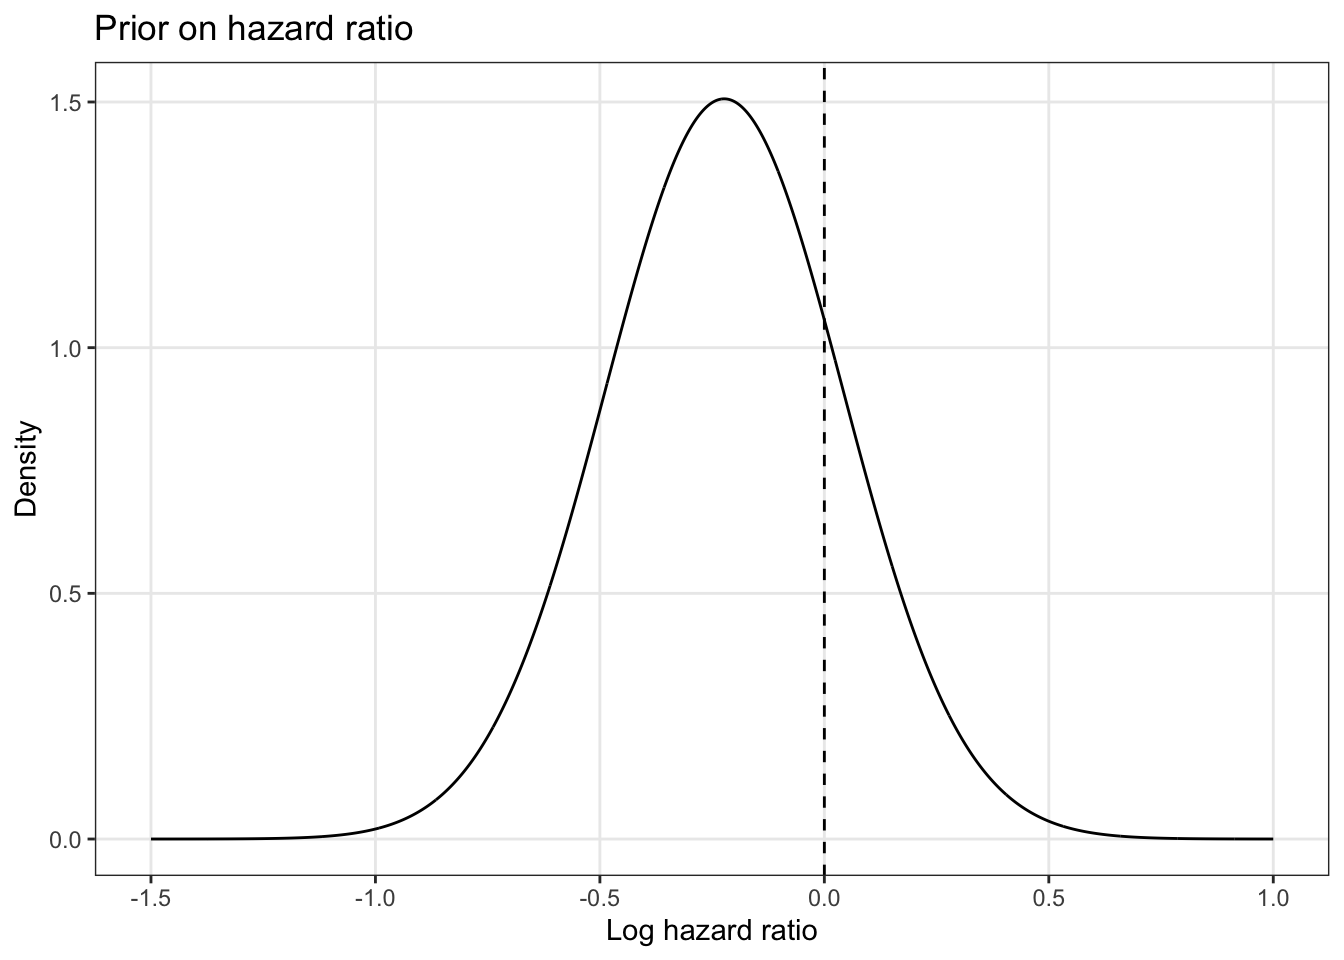
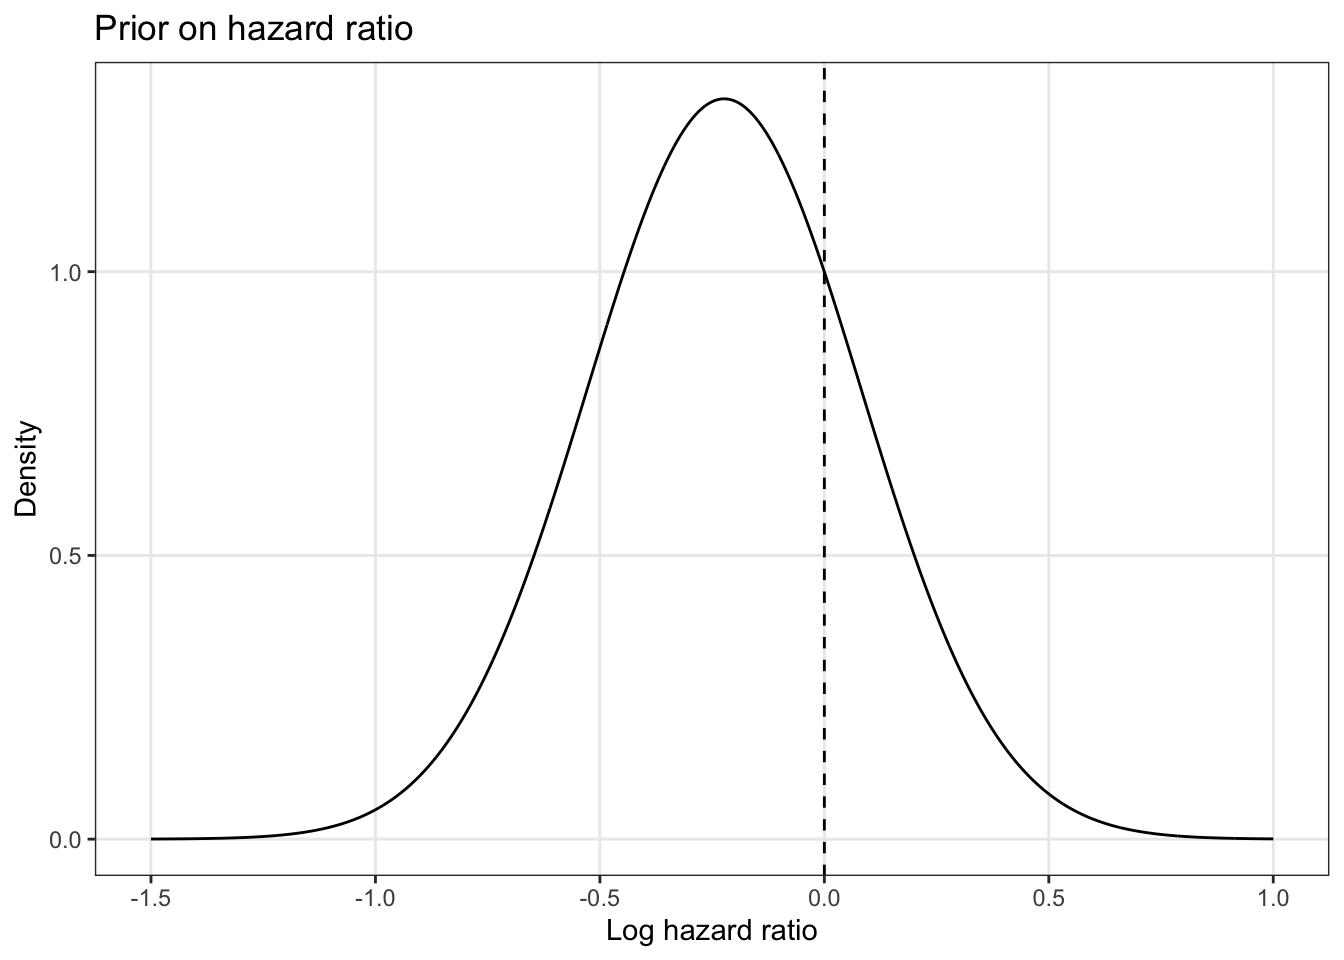
Update

diff --git a/docs/01-SampleSize-Seamless.html b/docs/01-SampleSize-Seamless.html
@@ -244,10 +244,7 @@ window.Quarto = {
   <li><a href="#gaussian-approximation" id="toc-gaussian-approximation" class="nav-link" data-scroll-target="#gaussian-approximation"><span class="header-section-number">3.5.1</span> Gaussian approximation</a></li>
   <li><a href="#phase-ii-part" id="toc-phase-ii-part" class="nav-link" data-scroll-target="#phase-ii-part"><span class="header-section-number">3.5.2</span> Phase-II part</a></li>
   <li><a href="#early-stopping-phase-ii" id="toc-early-stopping-phase-ii" class="nav-link" data-scroll-target="#early-stopping-phase-ii"><span class="header-section-number">3.5.3</span> Early stopping phase-II</a></li>
-  <li><a href="#decision-for-phase-iii" id="toc-decision-for-phase-iii" class="nav-link" data-scroll-target="#decision-for-phase-iii"><span class="header-section-number">3.5.4</span> Decision for phase-III</a>
-  <ul class="collapse">
-  <li><a href="#competing-risk" id="toc-competing-risk" class="nav-link" data-scroll-target="#competing-risk"><span class="header-section-number">3.5.4.1</span> Competing risk</a></li>
-  </ul></li>
+  <li><a href="#decision-for-phase-iii" id="toc-decision-for-phase-iii" class="nav-link" data-scroll-target="#decision-for-phase-iii"><span class="header-section-number">3.5.4</span> Decision for phase-III</a></li>
   <li><a href="#simulation-assumptions" id="toc-simulation-assumptions" class="nav-link" data-scroll-target="#simulation-assumptions"><span class="header-section-number">3.5.5</span> Simulation assumptions</a>
   <ul class="collapse">
   <li><a href="#stopping-boundaries-phase-ii" id="toc-stopping-boundaries-phase-ii" class="nav-link" data-scroll-target="#stopping-boundaries-phase-ii"><span class="header-section-number">3.5.5.1</span> Stopping boundaries phase-II</a></li>
@@ -258,6 +255,8 @@ window.Quarto = {
   <li><a href="#gaussian-prior-on-hazard-ratio-for-disease-free-survival" id="toc-gaussian-prior-on-hazard-ratio-for-disease-free-survival" class="nav-link" data-scroll-target="#gaussian-prior-on-hazard-ratio-for-disease-free-survival"><span class="header-section-number">3.5.6.2</span> Gaussian prior on hazard ratio for disease-free survival</a></li>
   </ul></li>
   </ul></li>
+  <li><a href="#results" id="toc-results" class="nav-link" data-scroll-target="#results"><span class="header-section-number">3.6</span> Results</a></li>
+  <li><a href="#comparison-with-frequentist-phase-iii-trial" id="toc-comparison-with-frequentist-phase-iii-trial" class="nav-link" data-scroll-target="#comparison-with-frequentist-phase-iii-trial"><span class="header-section-number">3.7</span> Comparison with frequentist phase-III trial</a></li>
   <li><a href="#author" id="toc-author" class="nav-link" data-scroll-target="#author">Author</a></li>
   </ul>
 </nav>
@@ -273,27 +272,26 @@ window.Quarto = {
 
 
 
-<p><strong>THIS VIGNETTE IS STILL WORK IN PROGRESS</strong></p>
 <p>This vignette was motivated by a consulting of CTU Bern (C2597). It is an example of a Bayesian seamless phase-II/III design with a correlated adverse event endpoint and a time-to-event primary endpoint.</p>
 <section id="available-evidence" class="level2" data-number="3.1">
 <h2 data-number="3.1" class="anchored" data-anchor-id="available-evidence"><span class="header-section-number">3.1</span> Available evidence</h2>
 <p>For the <strong>control arm</strong> we used information from a published randomized controlled trial. The authors reported from approximately 350 total randomized patients to a control arm a disease-free survival percentage of approximately 50% at 24-months. For our sample size calculation we assumed a slightly more conservative percentage of 45%.</p>
 <p>For the <strong>experimental arm</strong> we use information from another study with a similar intervention which reported an approximate 70% progression-free survival at 24 months. We assumed a more conservative 60% progression-free survival at 24-months in the experimental arm.</p>
 <p>For <strong>adverse events outcomes</strong> (defined by grade 3 CTCAE) in the experimental arm we used the reported number of a review from 20 (4 prospective studies and 16 retrospective studies). For the prospective studies the authors reported a weighted average of 13.9% adverse events, whereas for the retrospective studies a value of 10.4%. We used a slightly more conservative value of 15% for the sample size calculation.</p>
-<p>No assumptions for the correlation between adverse events and disease-free survival were reported.</p>
+<p>No assumptions for the correlation between adverse events and disease-free survival were reported. In our used simulation approach we assumed correlations of 0.1, 0.5 and 0.9 between the adverse event outcome and the progression-free survival.</p>
 </section>
 <section id="endpoints-and-testing-hierarchy" class="level2" data-number="3.2">
 <h2 data-number="3.2" class="anchored" data-anchor-id="endpoints-and-testing-hierarchy"><span class="header-section-number">3.2</span> Endpoints and testing hierarchy</h2>
 <p><strong>Safety endpoint</strong>: Adverse events in experimental arm (for phase-II part)</p>
 <p><strong>Primary endpoint</strong>: Disease-free survival at 24-months (phase-III endpoint)</p>
-<p>We test the endpoints in a hierarchical way: Only if a pre-specified high probability for an excess adverse event proportion exists, the primary endpoint will be assessed for a continuation into a phase-III study.</p>
+<p>Of note, these are not co-primary endpoints, because the safety endpoint is not required to define a trial success. But we test the endpoints in a hierarchical way: Only if the probability for an excess adverse event proportion is below a given threshold, the primary endpoint will be assessed for futility assessment.</p>
 </section>
 <section id="hypotheses" class="level2" data-number="3.3">
 <h2 data-number="3.3" class="anchored" data-anchor-id="hypotheses"><span class="header-section-number">3.3</span> Hypotheses</h2>
 <p>We consider the following one-sided hypotheses for the phase-III trial</p>
 <ul>
-<li>Null hypothesis: Log hazard ratio <span class="math inline">\(\theta\)</span> between experimental arm and control arm is greater or equal than zero, that is, <span class="math inline">\(H_0: \theta \geq 0\)</span></li>
-<li>Alternative hypothesis: Log hazard ratio <span class="math inline">\(\theta\)</span> between experimental arm and control arm is smaller than zero, that is, <span class="math inline">\(H_0: \theta&lt;0\)</span></li>
+<li>Null hypothesis: Log hazard ratio <span class="math inline">\(\theta\)</span> between experimental arm and control arm is greater or equal than zero, that is, <span class="math inline">\(H_0: \theta \geq 0\)</span>,</li>
+<li>Alternative hypothesis: Log hazard ratio <span class="math inline">\(\theta\)</span> between experimental arm and control arm is smaller than zero, that is, <span class="math inline">\(H_0: \theta&lt;0\)</span>.</li>
 </ul>
 </section>
 <section id="trial-structure" class="level2" data-number="3.4">
@@ -308,11 +306,11 @@ window.Quarto = {
     dateFormat X
     axisFormat %s
     section Phase-II
-    Interim phase-II: active, 0, 40
-    Phase-II: 0, 120
-    Evaluation for Phase-III: crit, 0, 120
+    Interim phase-II: active, 0, 50
+    Phase-II: 0, 100
+    Evaluation for Phase-III: crit, 0, 100
     section Phase-III
-    Phase-III: 0, 560
+    Phase-III: 0, 360
 </pre>
 </div>
 <p></p></figure><p></p>
@@ -331,7 +329,7 @@ window.Quarto = {
 </section>
 <section id="phase-ii-part" class="level3" data-number="3.5.2">
 <h3 data-number="3.5.2" class="anchored" data-anchor-id="phase-ii-part"><span class="header-section-number">3.5.2</span> Phase-II part</h3>
-<p>We plan the phase-II part with an an priori fixed sample size because of feasibility and resources discussed with clinicians. A safety interim analysis is planned</p>
+<p>We plan the phase-II part with an a priori fixed sample size of 100 patients. A safety interim analysis is planned after 25 patients are recruited in the experimental arm.</p>
 </section>
 <section id="early-stopping-phase-ii" class="level3" data-number="3.5.3">
 <h3 data-number="3.5.3" class="anchored" data-anchor-id="early-stopping-phase-ii"><span class="header-section-number">3.5.3</span> Early stopping phase-II</h3>
@@ -355,17 +353,11 @@ PP&amp;=E\left[I\left\{ P\left(p_1&gt;p_{max}|r_{1}, n_{1}, s_{1}\right)&gt;\the
 <li>If we have a low predictive probability for a successful phase-III trial at the end of phase-II.</li>
 </ol></li>
 </ul>
-<p>For the latter approach we use a Bayesian predictive ‘interim monitoring’ approach as described in <span class="citation" data-cites="Spiegelhalter2003">[<a href="references.html#ref-Spiegelhalter2003" role="doc-biblioref">1</a>]</span>, chapter 6.6.3. In brief, we use the observed data at the end of phase-II (interim data <span class="math inline">\(y_m\)</span>), the prior information and the assumed number of ‘future’ phase-III patients (<span class="math inline">\(Y_n\)</span>) to calculate the predictive probability for a trial success that is we calculate</p>
+<p>For the latter approach we use a Bayesian predictive ‘interim monitoring’ approach as described in <span class="citation" data-cites="Spiegelhalter2003">[<a href="references.html#ref-Spiegelhalter2003" role="doc-biblioref">1</a>]</span>, chapter 6.6.3. In brief, we use the observed data at the end of phase-II (interim data <span class="math inline">\(y_m\)</span>), the prior information and the assumed number of ‘future’ phase-III patients (<span class="math inline">\(Y_n\)</span>) to calculate the predictive probability of <span class="math inline">\(P(\theta&lt;0|y_m, Y_n)\)</span>. We stop the trial for futility if <span class="math inline">\(P(\theta&lt;0|y_m, Y_n)&lt;\epsilon_{fut}\)</span>, which is</p>
 <p><span class="math display">\[
-P(\theta&lt;0|y_m, Y_n)\geq 95\%,
-\]</span> which is</p>
-<p><span class="math display">\[
-1-\Phi\left[ \frac{\sqrt{m_{phase3}}\theta_{phase3}}{2}+\frac{m_{phase2}\theta_{phase2}}{2\sqrt{m_{phase3}}}+\frac{m_{prior}\theta_{prior}}{2\sqrt{m_{phase3}}}+\sqrt{\frac{m_{prior}+m_{phase2}+m_{phase3}}{m_{phase3}}}\cdot z_{0.95} \right],
-\]</span> where <span class="math inline">\(z_{0.95}\)</span> is the upper 95%-quantile of a Gaussian distribution. Because of the phase-II character we used a higher “one-sided” success probability of 95%. For the phase-III part we use a success probability of 97.5% as threshold.</p>
-<section id="competing-risk" class="level4" data-number="3.5.4.1">
-<h4 data-number="3.5.4.1" class="anchored" data-anchor-id="competing-risk"><span class="header-section-number">3.5.4.1</span> Competing risk</h4>
-<p>An adverse event is a competing event for progression or death. For the sample size calculation we ‘replaced’ patients with an adverse event with new phase-III patients. In the statistical analysis a competing event analysis is required.</p>
-</section>
+1-\Phi\left[ \frac{\sqrt{m_{phase3}}\theta_{phase3}}{2}+\frac{m_{phase2}\theta_{phase2}}{2\sqrt{m_{phase3}}}+\frac{m_{prior}\theta_{prior}}{2\sqrt{m_{phase3}}}+\sqrt{\frac{m_{prior}+m_{phase2}+m_{phase3}}{m_{phase3}}}\cdot z_{1-\epsilon_{fut}} \right],
+\]</span> where <span class="math inline">\(z_{1-\epsilon_{fut}}\)</span> is the upper <span class="math inline">\(1-\epsilon_{fut}\)</span>%-quantile of a Gaussian distribution.</p>
+<p>The trial at the end of phase-III is considered as successful if the posterior distribution of the log hazard ratio <span class="math inline">\(P(\theta&lt;0|\theta_0, y_m, Y)\geq 1-\epsilon_{success}\)</span>.</p>
 </section>
 <section id="simulation-assumptions" class="level3" data-number="3.5.5">
 <h3 data-number="3.5.5" class="anchored" data-anchor-id="simulation-assumptions"><span class="header-section-number">3.5.5</span> Simulation assumptions</h3>
@@ -435,6 +427,7 @@ P(\theta&lt;0|y_m, Y_n)\geq 95\%,
 <pre><code>[1] "12%"</code></pre>
 </div>
 </div>
+<p>For the sample size calculation we assumed that for patients with an adverse event, 24-month progression-free survival information will be available and used for the sample size calculation.</p>
 <section id="stopping-boundaries-phase-ii" class="level4" data-number="3.5.5.1">
 <h4 data-number="3.5.5.1" class="anchored" data-anchor-id="stopping-boundaries-phase-ii"><span class="header-section-number">3.5.5.1</span> Stopping boundaries phase-II</h4>
 <p>We assumed the following parameters for the excess adverse event proportion stopping in the experimental arm:</p>
@@ -460,11 +453,11 @@ P(\theta&lt;0|y_m, Y_n)\geq 95\%,
 </tr>
 <tr class="odd">
 <td>Initial interim sample size</td>
-<td>n=30</td>
+<td>n=25</td>
 </tr>
 <tr class="even">
 <td>Final sample size</td>
-<td>n=70</td>
+<td>n=50</td>
 </tr>
 <tr class="odd">
 <td><span class="math inline">\(\theta_{T_{Non-safe}}\)</span></td>
@@ -488,11 +481,11 @@ P(\theta&lt;0|y_m, Y_n)\geq 95\%,
 <span id="cb7-6"><a href="#cb7-6" aria-hidden="true" tabindex="-1"></a></span>
 <span id="cb7-7"><a href="#cb7-7" aria-hidden="true" tabindex="-1"></a>x <span class="ot">&lt;-</span> <span class="fu">seq</span>(<span class="dv">0</span>,<span class="dv">1</span>,<span class="fl">0.001</span>)</span>
 <span id="cb7-8"><a href="#cb7-8" aria-hidden="true" tabindex="-1"></a></span>
-<span id="cb7-9"><a href="#cb7-9" aria-hidden="true" tabindex="-1"></a>n_initial <span class="ot">&lt;-</span> <span class="dv">30</span></span>
+<span id="cb7-9"><a href="#cb7-9" aria-hidden="true" tabindex="-1"></a>n_initial <span class="ot">&lt;-</span> <span class="dv">25</span></span>
 <span id="cb7-10"><a href="#cb7-10" aria-hidden="true" tabindex="-1"></a>r <span class="ot">&lt;-</span> <span class="dv">0</span><span class="sc">:</span>n_initial</span>
-<span id="cb7-11"><a href="#cb7-11" aria-hidden="true" tabindex="-1"></a>n_increase <span class="ot">&lt;-</span> <span class="dv">40</span></span>
+<span id="cb7-11"><a href="#cb7-11" aria-hidden="true" tabindex="-1"></a>n_increase <span class="ot">&lt;-</span> <span class="dv">25</span></span>
 <span id="cb7-12"><a href="#cb7-12" aria-hidden="true" tabindex="-1"></a></span>
-<span id="cb7-13"><a href="#cb7-13" aria-hidden="true" tabindex="-1"></a>n_max <span class="ot">&lt;-</span> <span class="dv">70</span></span>
+<span id="cb7-13"><a href="#cb7-13" aria-hidden="true" tabindex="-1"></a>n_max <span class="ot">&lt;-</span> <span class="dv">50</span></span>
 <span id="cb7-14"><a href="#cb7-14" aria-hidden="true" tabindex="-1"></a>n <span class="ot">&lt;-</span> <span class="fu">seq</span>(n_initial, n_max, n_increase)</span>
 <span id="cb7-15"><a href="#cb7-15" aria-hidden="true" tabindex="-1"></a>r <span class="ot">&lt;-</span> <span class="dv">0</span><span class="sc">:</span>n_max</span>
 <span id="cb7-16"><a href="#cb7-16" aria-hidden="true" tabindex="-1"></a>m <span class="ot">&lt;-</span> n_max<span class="sc">-</span>r</span>
@@ -532,8 +525,8 @@ P(\theta&lt;0|y_m, Y_n)\geq 95\%,
 # Groups:   Maximal sample size [1]
   `Maximal sample size` `Interim sample size` `Stopping boundary`
                   &lt;dbl&gt;                 &lt;dbl&gt;               &lt;int&gt;
-1                    70                    30                   9
-2                    70                    70                  19</code></pre>
+1                    50                    25                   8
+2                    50                    50                  14</code></pre>
 </div>
 </div>
 </section>
@@ -555,12 +548,12 @@ P(\theta&lt;0|y_m, Y_n)\geq 95\%,
 <span id="cb9-3"><a href="#cb9-3" aria-hidden="true" tabindex="-1"></a>expected_event_rate <span class="ot">&lt;-</span> <span class="fl">0.5</span><span class="sc">*</span>(<span class="fu">pexp</span>(<span class="dv">24</span>, rate_event_0)<span class="sc">+</span><span class="fu">pexp</span>(<span class="dv">24</span>, rate_event_1))</span>
 <span id="cb9-4"><a href="#cb9-4" aria-hidden="true" tabindex="-1"></a></span>
 <span id="cb9-5"><a href="#cb9-5" aria-hidden="true" tabindex="-1"></a>prior_mean <span class="ot">&lt;-</span> <span class="fu">log</span>(<span class="fl">0.8</span>)</span>
-<span id="cb9-6"><a href="#cb9-6" aria-hidden="true" tabindex="-1"></a>prior_weight <span class="ot">&lt;-</span> <span class="dv">120</span></span>
+<span id="cb9-6"><a href="#cb9-6" aria-hidden="true" tabindex="-1"></a>prior_weight <span class="ot">&lt;-</span> <span class="dv">90</span></span>
 <span id="cb9-7"><a href="#cb9-7" aria-hidden="true" tabindex="-1"></a></span>
 <span id="cb9-8"><a href="#cb9-8" aria-hidden="true" tabindex="-1"></a>prior_sd <span class="ot">&lt;-</span> <span class="dv">2</span><span class="sc">/</span><span class="fu">sqrt</span>(prior_weight<span class="sc">*</span>expected_event_rate)</span></code><button title="Copy to Clipboard" class="code-copy-button"><i class="bi"></i></button></pre></div>
 </details>
 </div>
-<p>For the prior on the hazard ratio for disease-free survival we assumed a Gaussian distribution centered on a mean of <span class="math inline">\(log(0.8)\)</span> with a standard deviation of <span class="math inline">\(0.26\)</span>, which is based on the expected event rate with a prior weight of 120 patients. This leads to a probability that the prior log hazard ratio is greater than 0 of <span class="math inline">\(0.2\)</span>.</p>
+<p>For the prior on the hazard ratio for disease-free survival we assumed a Gaussian distribution centered on a mean of <span class="math inline">\(log(0.8)\)</span> with a standard deviation of <span class="math inline">\(0.31\)</span>, which is based on the expected event rate with a prior weight of <span class="math inline">\(90\)</span> patients. This leads to a probability that the prior log hazard ratio is greater than 0 of <span class="math inline">\(0.23\)</span>.</p>
 <div class="cell">
 <details class="code-fold">
 <summary>Show R code</summary>
@@ -582,6 +575,62 @@ P(\theta&lt;0|y_m, Y_n)\geq 95\%,
 </div>
 </section>
 </section>
+</section>
+<section id="results" class="level2" data-number="3.6">
+<h2 data-number="3.6" class="anchored" data-anchor-id="results"><span class="header-section-number">3.6</span> Results</h2>
+<p>We simulated 1,000 trials with the above specification parameters and report the following trial operating characteristics:</p>
+<table class="table">
+<colgroup>
+<col style="width: 88%">
+<col style="width: 11%">
+</colgroup>
+<thead>
+<tr class="header">
+<th>Parameter</th>
+<th>Value</th>
+</tr>
+</thead>
+<tbody>
+<tr class="odd">
+<td>Probability of stopping at interim analysis (phase-II) because of safety under null hypothesis</td>
+<td>5.8%</td>
+</tr>
+<tr class="even">
+<td>Probability of stopping (phase-II) because of safety under null hypothesis</td>
+<td>15.4%</td>
+</tr>
+<tr class="odd">
+<td>Probability of starting a phase-III trial under null hypothesis</td>
+<td>43.1%</td>
+</tr>
+<tr class="even">
+<td>Probability of not-starting a phase-III trial because of futility under null hypothesis</td>
+<td>27.7%</td>
+</tr>
+<tr class="odd">
+<td>Probability of successful phase-III trial under the null hypothesis</td>
+<td>3%</td>
+</tr>
+<tr class="even">
+<td>Probability of successful phase-III trial under the alternative hypothesis</td>
+<td>81%</td>
+</tr>
+<tr class="odd">
+<td><span class="math inline">\(\epsilon_{fut}\)</span></td>
+<td>10%</td>
+</tr>
+<tr class="even">
+<td><span class="math inline">\(\epsilon_{success}\)</span></td>
+<td>2.5%</td>
+</tr>
+</tbody>
+</table>
+</section>
+<section id="comparison-with-frequentist-phase-iii-trial" class="level2" data-number="3.7">
+<h2 data-number="3.7" class="anchored" data-anchor-id="comparison-with-frequentist-phase-iii-trial"><span class="header-section-number">3.7</span> Comparison with frequentist phase-III trial</h2>
+<p>We compare our seamless phase-II/III design simulation results with a sample size calculation from a ‘classic’ frequentist phase-III design with a one-sided logrank test (<span class="math inline">\(\alpha=0.025\)</span>, <span class="math inline">\(1-\beta=0.8\)</span>$ using the <em>artsurv</em> command in Stata:</p>
+<p><strong>artsurv</strong>, method(l) edf0(0.45) hr(1,0.64) np(2) recrt(0 0, 1, 0 ) onesided(1) alpha(0.025) power(0.8)</p>
+<p>This command gives a calculated total sample size of 336 patients with an expected total number of events of 160 events.</p>
 </section>
 <section id="author" class="level2 unnumbered">
 <h2 class="unnumbered anchored" data-anchor-id="author">Author</h2>
